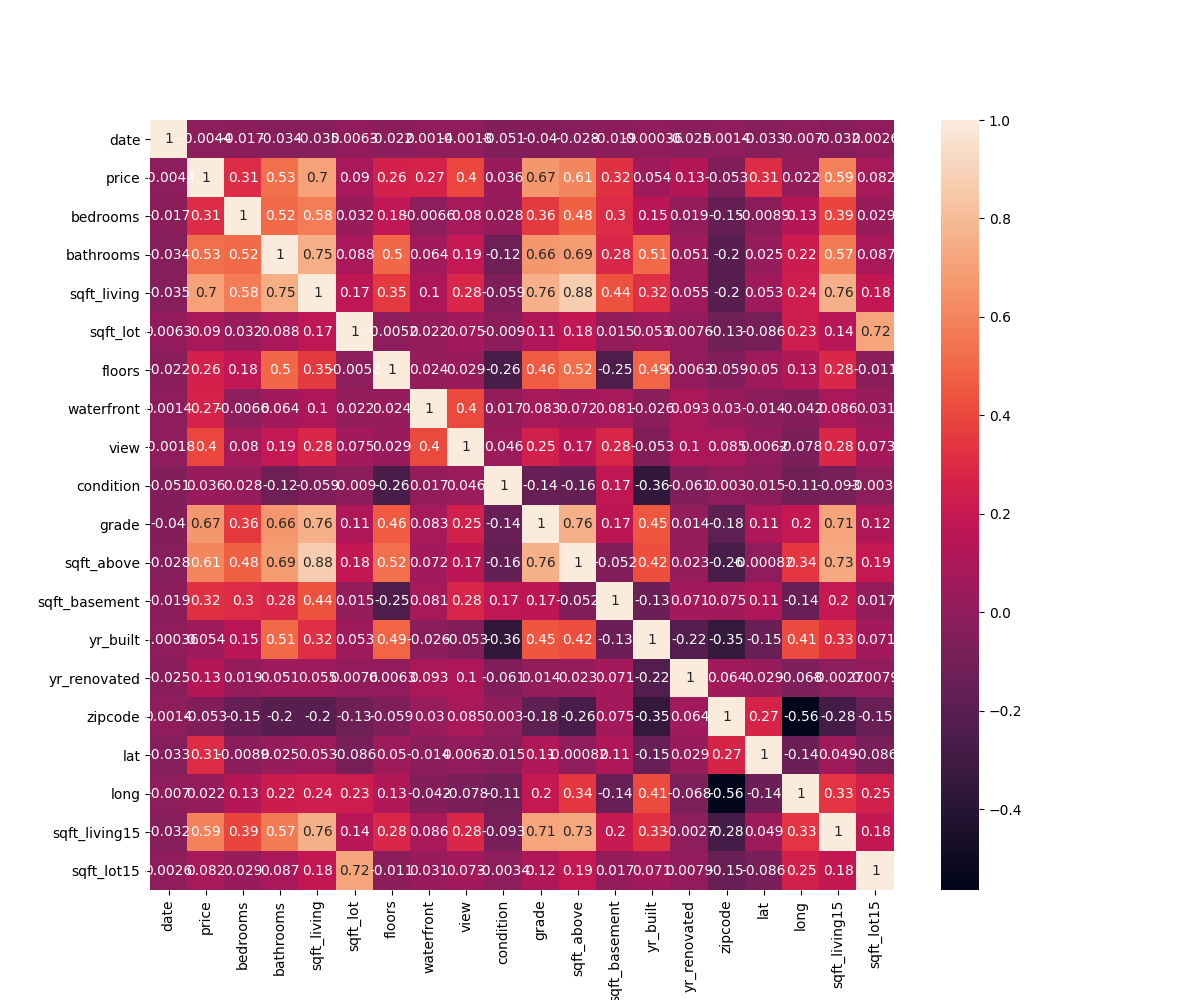
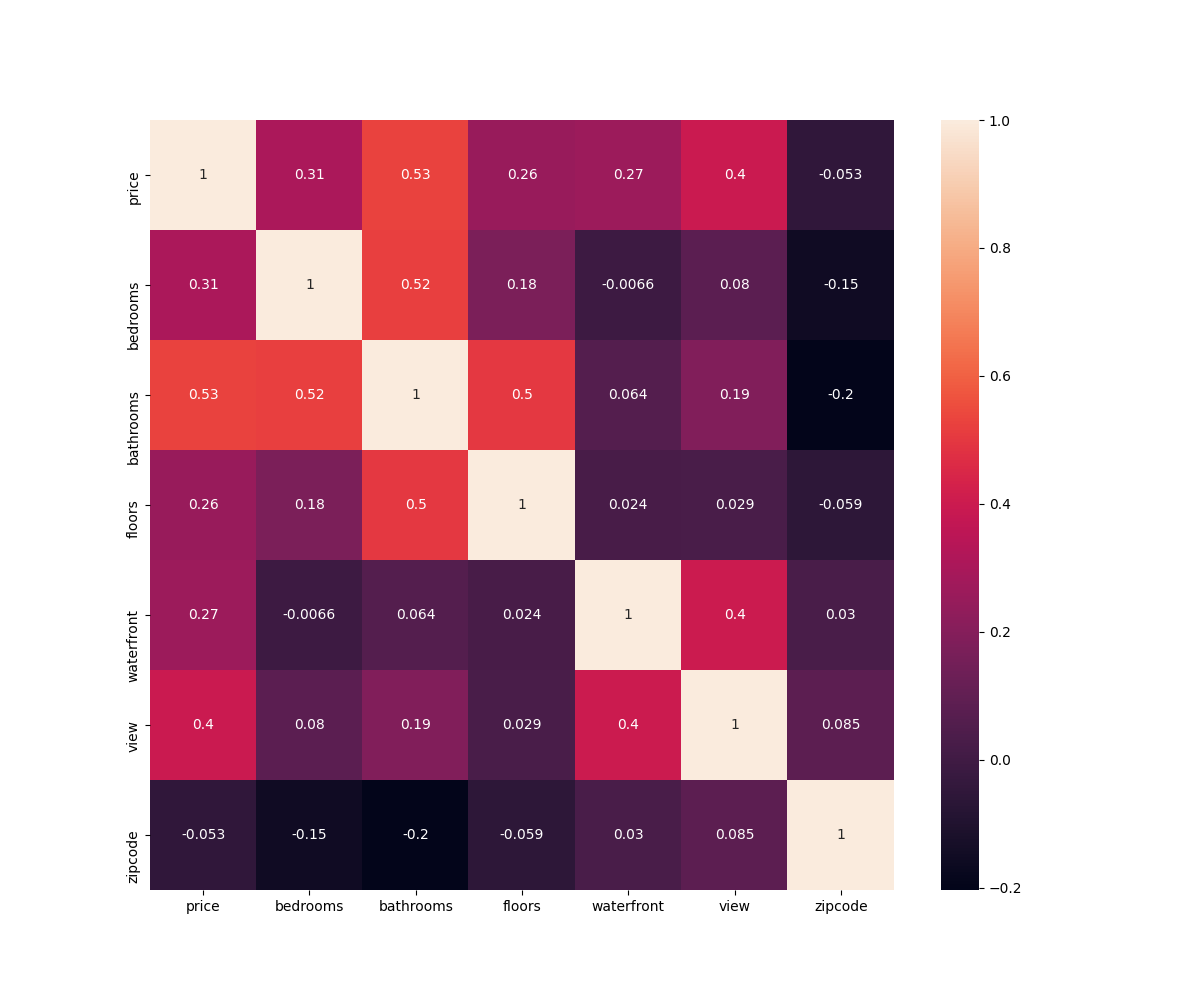
Generate visualizations

diff --git a/generate_visualizations.py b/generate_visualizations.py
@@ -1,0 +1,69 @@
+import pandas as pd
+import matplotlib.pyplot as plt
+import seaborn as sns
+from config import Config
+from sklearn.decomposition import PCA
+from sklearn.preprocessing import StandardScaler
+from sklearn.model_selection import train_test_split
+from sklearn.ensemble import RandomForestRegressor
+
+data = Config.HOUSE_DATA
+
+data_corr = data.corr()
+
+fig, ax = plt.subplots(figsize=(12, 10))
+sns.heatmap(data_corr, annot=True)
+
+plt.savefig("app/static/img/heatmap.png")
+
+pca = PCA(n_components=2)
+
+scaler = StandardScaler()
+scaler.fit(data)
+
+scaled_data = scaler.transform(data)
+
+pca.fit(scaled_data)
+
+x_pca = pca.transform(scaled_data)
+
+plt.figure(figsize=(8,6))
+plt.scatter(x_pca[:, 0], x_pca[:, 1], c=data['price'], cmap='rainbow')
+plt.xlabel('First Principal Component')
+plt.ylabel('Second Principal Component')
+
+plt.savefig("app/static/img/pca.png")
+
+x = data.drop('price', axis=1)
+y = data['price']
+
+x_train, x_test, y_train, y_test = train_test_split(x, y, test_size=0.2)
+
+rf = RandomForestRegressor()
+rf.fit(x_train, y_train)
+
+x = data.drop('price', axis=1)
+y = data['price']
+
+x_train, x_test, y_train, y_test = train_test_split(x, y, test_size=0.2)
+
+rf = RandomForestRegressor()
+rf.fit(x_train, y_train)
+
+y_pred = rf.predict(x_test)
+
+fig, ax = plt.subplots(figsize=(12, 8))
+plt.scatter(y_test, y_pred)
+plt.savefig("app/static/img/rf_reg_scatter.png")
+
+df_pred_actual = pd.DataFrame({'predicted': y_pred, 'actual': y_test})
+
+df_pred_actual_sample = df_pred_actual.sample(100)
+df_pred_actual_sample = df_pred_actual_sample.reset_index()
+
+plt.figure(figsize=(20,10))
+plt.plot(df_pred_actual_sample['predicted'], label='Predicted')
+plt.plot(df_pred_actual_sample['actual'], label='Actual')
+plt.ylabel('Price')
+plt.legend()
+plt.savefig("app/static/img/rf_pred_actual")

diff --git a/rf_reg.py b/rf_reg.py
@@ -18,33 +18,3 @@ def generate_rf_model():
     rf.fit(x_train, y_train)
 
     return rf
-
-# x = data.drop('price', axis=1)
-# y = data['price']
-#
-# x_train, x_test, y_train, y_test = train_test_split(x, y, test_size=0.2)
-#
-# rf = RandomForestRegressor()
-# rf.fit(x_train, y_train)
-#
-# y_pred = rf.predict(x_test)
-#
-# fig, ax = plt.subplots(figsize=(12, 8))
-# plt.scatter(y_test, y_pred)
-# plt.savefig("app/static/img/rf_reg_scatter.png")
-#
-# df_pred_actual = pd.DataFrame({'predicted': y_pred, 'actual': y_test})
-#
-# df_pred_actual_sample = df_pred_actual.sample(100)
-# df_pred_actual_sample = df_pred_actual_sample.reset_index()
-#
-# plt.figure(figsize=(20,10))
-# plt.plot(df_pred_actual_sample['predicted'], label='Predicted')
-# plt.plot(df_pred_actual_sample['actual'], label='Actual')
-# plt.ylabel('Price')
-# plt.legend()
-# plt.savefig("app/static/img/rf_pred_actual")
-#
-# filename = "rf_reg.pkl"
-# with open(filename, 'wb') as file:
-#     pickle.dump(rf, file)

diff --git a/pca.py b/pca.py
@@ -19,10 +19,3 @@ def generate_pca_model():
 
     return pca
 
-
-# plt.figure(figsize=(8,6))
-# plt.scatter(x_pca[:,0], x_pca[:,1], c=data['price'], cmap='rainbow')
-# plt.xlabel('First Principal Component')
-# plt.ylabel('Second Principal Component')
-#
-# plt.savefig("app/static/img/pca.png")
